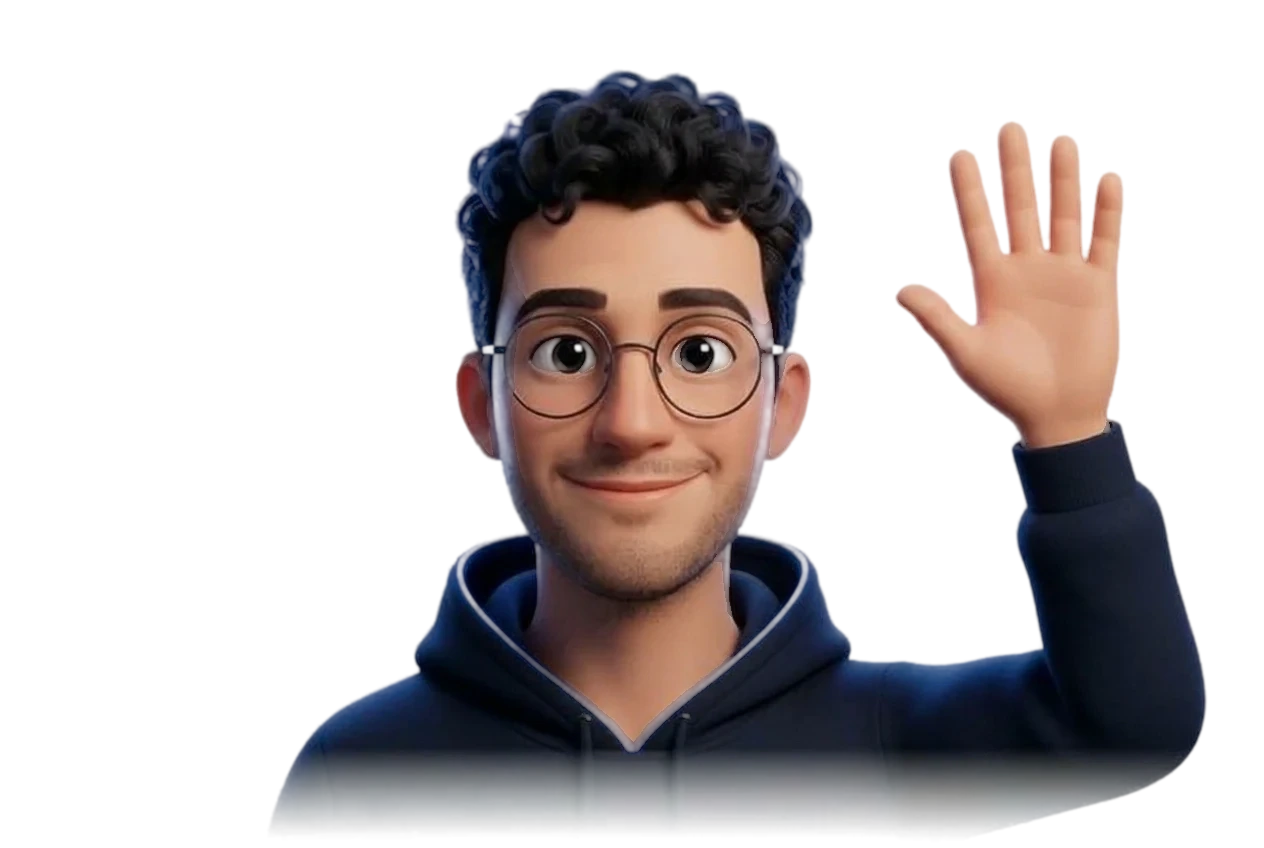
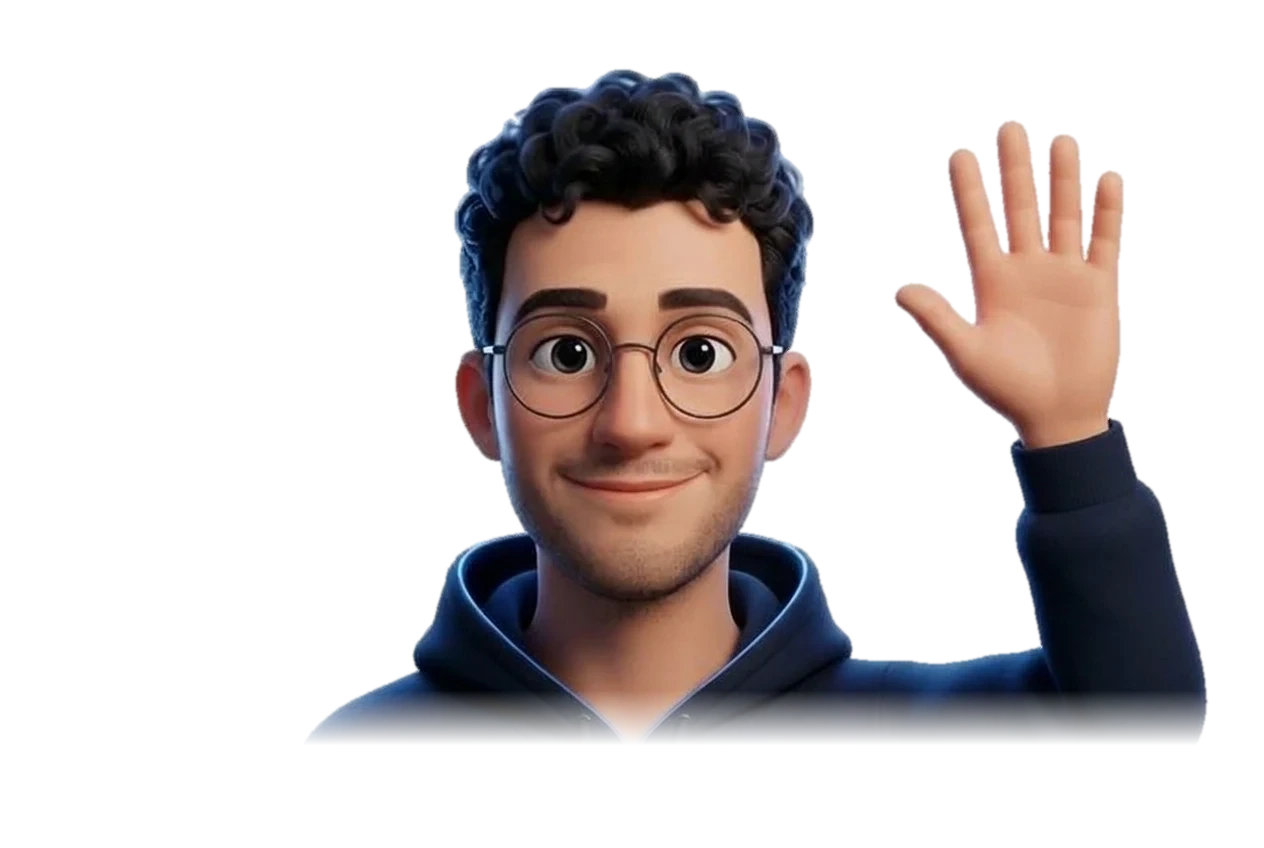
Wave image: solid silhouette matte (no see-through eyes), lower body stays from idle, no bottom band, quick swap

diff --git a/src/components/Character.tsx b/src/components/Character.tsx
@@ -22,7 +22,7 @@ const URLS = [
 const VERT = `varying vec2 vUv; void main(){ vUv = uv; gl_Position = projectionMatrix * modelViewMatrix * vec4(position,1.0); }`
 const FRAG = `
 uniform sampler2D uBase; uniform sampler2D uIris; uniform sampler2D uMask;
-uniform vec2 uGaze; uniform vec2 uHead; uniform float uOpacity;
+uniform vec2 uGaze; uniform vec2 uHead; uniform float uWave;
 varying vec2 vUv;
 void main(){
   float vy = 1.0 - vUv.y;
@@ -35,7 +35,8 @@ void main(){
   float m = texture2D(uMask, p).r;
   float a = iris.a * m;
   vec3 col = mix(base.rgb, iris.rgb, a);
-  gl_FragColor = vec4(col, base.a * uOpacity);
+  float keep = mix(1.0, smoothstep(0.82, 0.885, vy), uWave); // while waving only the lower body of the idle image stays
+  gl_FragColor = vec4(col, base.a * keep);
   #include <colorspace_fragment>
 }`
 
@@ -64,7 +65,7 @@ export default function Character() {
           uMask: { value: maskTex },
           uGaze: { value: new THREE.Vector2() },
           uHead: { value: new THREE.Vector2() },
-          uOpacity: { value: 1 },
+          uWave: { value: 0 },
         },
         vertexShader: VERT,
         fragmentShader: FRAG,
@@ -168,12 +169,12 @@ void main(){ vec4 c = texture2D(uT, vUv); gl_FragColor = vec4(c.rgb, c.a * uAmt)
       const T = 2.8
       if (s.wt > T) s.wt = -1
       else {
-        wAmt = Math.min(1, s.wt / 0.35, (T - s.wt) / 0.35)
+        wAmt = Math.min(1, s.wt / 0.3, (T - s.wt) / 0.3)
         wAmt = wAmt * wAmt * (3 - 2 * wAmt)
       }
     }
     waveMat.uniforms.uAmt.value = wAmt
-    mat.uniforms.uOpacity.value = 1 - THREE.MathUtils.smoothstep(wAmt, 0.7, 1)
+    mat.uniforms.uWave.value = THREE.MathUtils.smoothstep(wAmt, 0.35, 0.65)
     // keep the whole raised arm on screen: slide the figure left while waving if the arm would be cut off
     const cam = state.camera as THREE.PerspectiveCamera
     const halfW = Math.tan(THREE.MathUtils.degToRad(cam.fov) / 2) * cam.position.z * (state.size.width / state.size.height)
